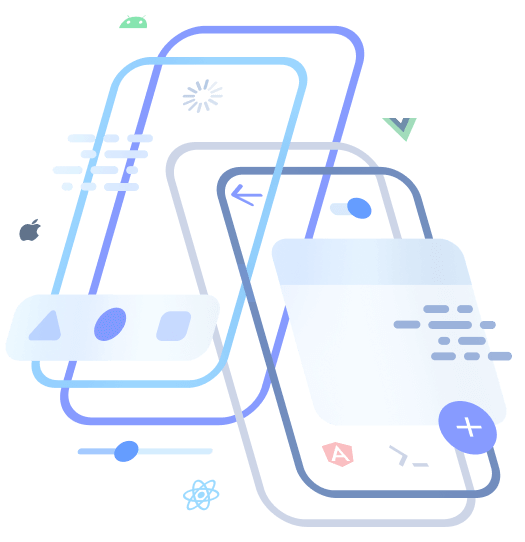
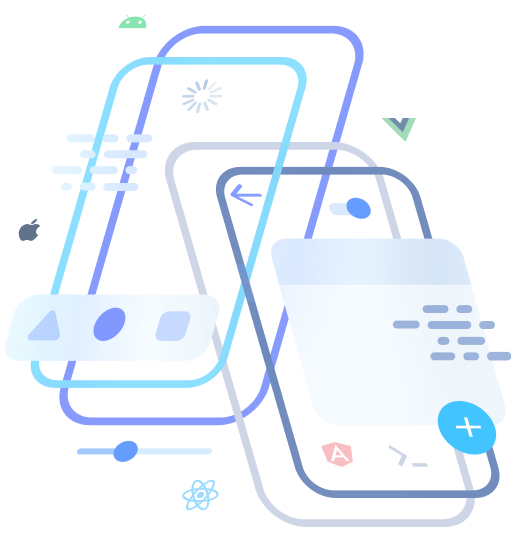
animating the homepage hero images along w/ text

diff --git a/server/pages/index.html b/server/pages/index.html
@@ -6,15 +6,15 @@
 {% set meta_description = "Ionic is the app development platform for web developers. Build amazing cross platform mobile, web, and desktop apps all with one shared code base and open web standards" %}
 {% set stickyNav = true %}
 {% set cssPath = 'home' %}
-{% set cssVersion = 4 %}
+{% set cssVersion = 5 %}
 
 {% block main %} 
 <div id="ionic-slider">
   <section id="slide-ionic-react" class="container">
     <div class="landing__content">
       <h1>
-        <span class="activateOnScroll">One codebase. </span>
-        <span class="activateOnScroll">Any platform. </span>
+        <span class="activateOnScroll">One codebase.</span>
+        <span class="activateOnScroll">Any platform.</span>
         <span class="activateOnScroll">
           Now in
           <span class="words">
@@ -31,10 +31,23 @@
       </div>
     </div>  
     <div class="landing__img">
-      <img  src="/img/homepage/hero-ionic-react@2x.png"
+      <img  class="react active"
+            src="/img/homepage/hero-ionic-react@2x.png"
             srcset="/img/homepage/hero-ionic-react.png 1x,
                     /img/homepage/hero-ionic-react@2x.png 2x"
-            width="525" height="542">   
+            width="525" height="542">
+      <img  class="vue"
+            loading="lazy"
+            src="/img/homepage/hero-ionic-vue@2x.png"
+            srcset="/img/homepage/hero-ionic-vue.png 1x,
+                    /img/homepage/hero-ionic-vue@2x.png 2x"
+            width="525" height="542">
+      <img  class="angular"
+            loading="lazy"
+            src="/img/homepage/hero-ionic-angular@2x.png"
+            srcset="/img/homepage/hero-ionic-angular.png 1x,
+                    /img/homepage/hero-ionic-angular@2x.png 2x"
+            width="525" height="542">
     </div>
   </section>
 

diff --git a/assets/scss/components/home_slides/_react-1.scss b/assets/scss/components/home_slides/_react-1.scss
@@ -109,7 +109,6 @@
       position: relative;
       color: #ef4d4d;
       animation-delay: 8s;
-
       opacity: 0;
 
       &::after {
@@ -119,7 +118,6 @@
 
     .vue {
       color: #42b983;
-
       opacity: 0;
 
       &::after {
@@ -247,12 +245,55 @@
   .landing__img {
     flex: 1 1 50%;
     max-width: 524px;
+    min-height: 542px;
+    position: relative;
 
     img {
       width: 100%;
       height: auto;
-      position: relative;
       left: 48px;
+      position: absolute;
+      opacity: 0;
+      animation: homeHeroFadeIn 24s infinite;
+
+      &.active {
+        opacity: 1;
+      }
+
+      &.react {
+        animation-delay: -8s;
+      }
+
+      &.angular {
+        animation-delay: 8s;
+      }
+    }
+
+    @keyframes homeHeroFadeIn {
+      0% {
+        z-index: -1;
+        opacity: 0;
+      }
+      32.3% {
+        z-index: -1;
+        opacity: 0;
+      }
+      39% {
+        z-index: 1;
+        opacity: 1;
+      }
+      65.6% {
+        z-index: 1;
+        opacity: 1;
+      }
+      73% {
+        z-index: 1;
+        opacity: 0;
+      }
+      100% {
+        z-index: -1;
+        opacity: 0;
+      }
     }
   }
 }
